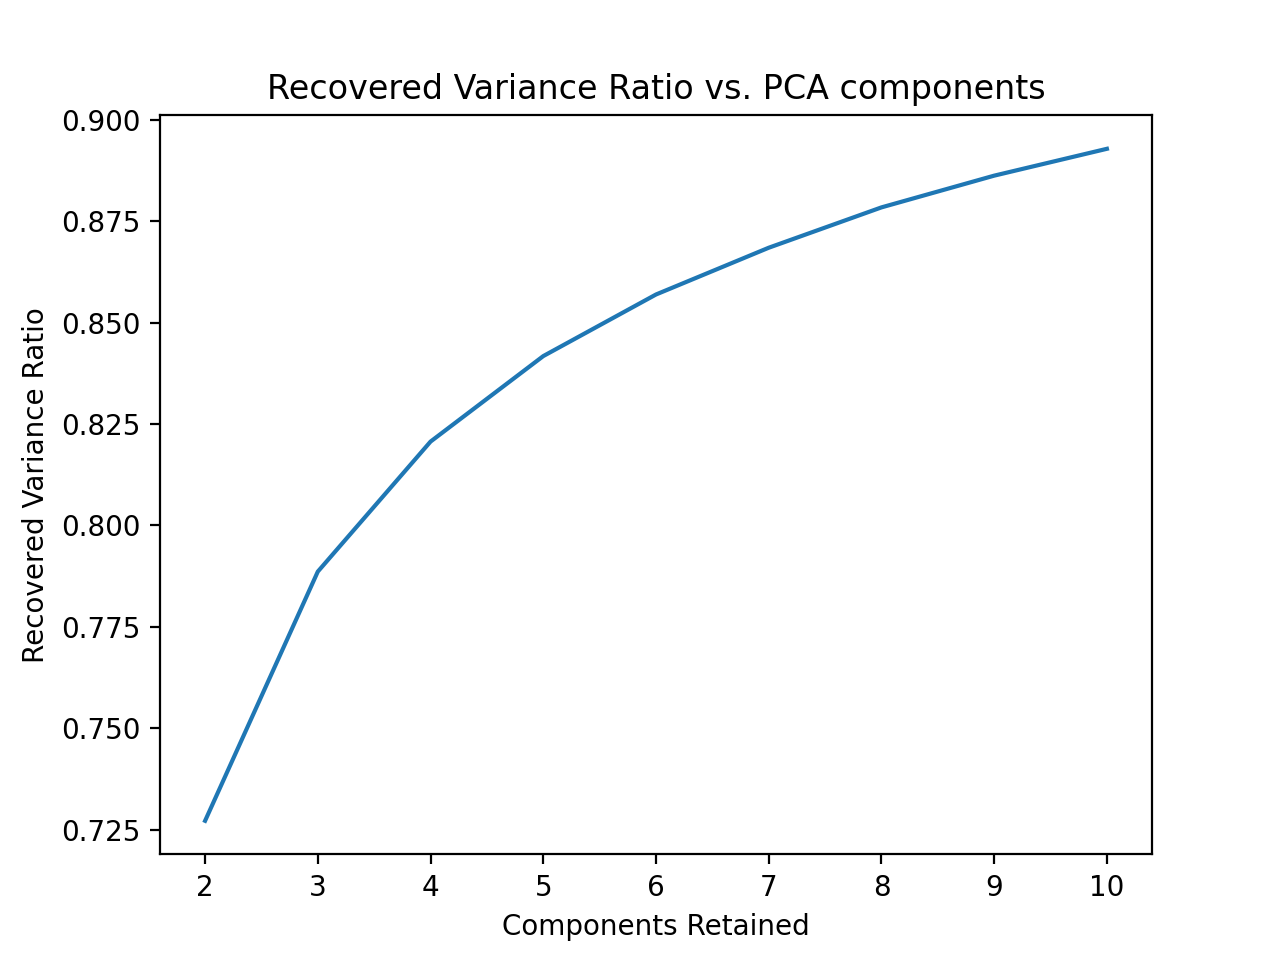
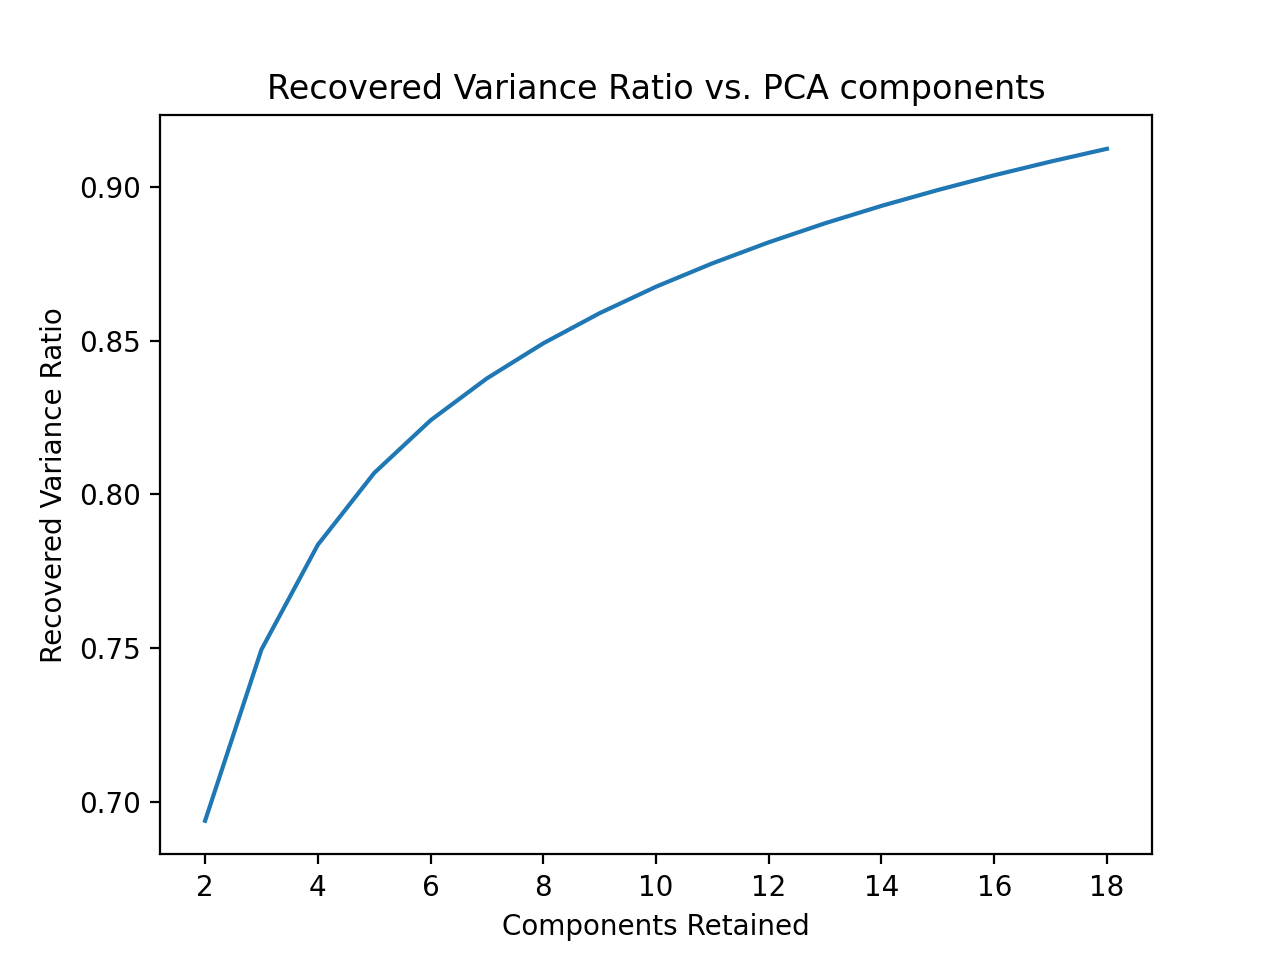
decided on parameters, added label generating

diff --git a/src/clustering.py b/src/clustering.py
@@ -24,7 +24,7 @@ class Clustering:
 
         if not os.path.exists(save_file_path):
             img = cv2.cvtColor(cv2.imread(path_to_file), cv2.COLOR_BGR2RGB)
-            img = cv2.resize(img, (1000, 1000))
+            img = cv2.resize(img, (250, 250))
             blue, green, red = cv2.split(img)
 
             df_blue = blue / 255.
@@ -40,10 +40,6 @@ class Clustering:
             pca_r = PCA(n_components=self.K)
             trans_pca_r = pca_r.fit_transform(df_red)
 
-            if (self.analysis == 1):
-                mean = (pca_r.explained_variance_ratio_ + pca_b.explained_variance_ratio_ + pca_g.explained_variance_ratio_) / 3
-                print(np.sum(mean))
-
             b_arr = pca_b.inverse_transform(trans_pca_b)
             g_arr = pca_g.inverse_transform(trans_pca_g)
             r_arr = pca_r.inverse_transform(trans_pca_r)
@@ -51,38 +47,90 @@ class Clustering:
             new_img = np.clip(cv2.merge((b_arr, g_arr, r_arr)), 0, 1)
 
             np.save(save_file_path, new_img)
-            if (self.analysis == 0):
-                print(f'Created compressed image for {path_to_file}')
+            print(f'Created compressed image for {path_to_file}')
         
-        return np.load(save_file_path, encoding='bytes')
+        return np.load(save_file_path, encoding='bytes'), os.path.splitext(path_to_file)[0]
 
     def __generate_images(self, u_subdir=""):
         all_images = []
+        paths = []
         total_num_files = 0
         for subdir, dirs, files in os.walk(os.path.join(IMAGES_PATH, u_subdir)):
             files = [ fi for fi in files if fi.endswith(".jpg") ]
-            imgs = np.zeros((len(files), 1000, 1000, 3))
+            imgs = np.zeros((len(files), 250, 250, 3))
             i = 0
             for file in files:
-                imgs[i, ...] = self.__compress_image(subdir, file)
+                imgs[i, ...], path = self.__compress_image(subdir, file)
+                i += 1
+                paths.append(path)
+            total_num_files += i
+            all_images.append((imgs, subdir))
+        return all_images, total_num_files, paths
+
+    def __compress_image_overwrite(self, subdir, file):
+        path_to_file = os.path.join(subdir, file)
+        save_file_path = os.path.splitext(path_to_file)[0] + ".npy"
+
+        img = cv2.cvtColor(cv2.imread(path_to_file), cv2.COLOR_BGR2RGB)
+        img = cv2.resize(img, (250, 250))
+        blue, green, red = cv2.split(img)
+
+        df_blue = blue / 255.
+        df_green = green / 255.
+        df_red = red / 255.
+
+        pca_b = PCA(n_components=self.K)
+        trans_pca_b = pca_b.fit_transform(df_blue)
+
+        pca_g = PCA(n_components=self.K)
+        trans_pca_g = pca_g.fit_transform(df_green)
+
+        pca_r = PCA(n_components=self.K)
+        trans_pca_r = pca_r.fit_transform(df_red)
+
+        if (self.analysis == 1):
+            mean = (pca_r.explained_variance_ratio_ + pca_b.explained_variance_ratio_ + pca_g.explained_variance_ratio_) / 3
+            mean = np.sum(mean)
+
+        b_arr = pca_b.inverse_transform(trans_pca_b)
+        g_arr = pca_g.inverse_transform(trans_pca_g)
+        r_arr = pca_r.inverse_transform(trans_pca_r)
+
+        new_img = np.clip(cv2.merge((b_arr, g_arr, r_arr)), 0, 1)
+
+        np.save(save_file_path, new_img)        
+        return np.load(save_file_path, encoding='bytes'), mean
+
+    def generate_images_overwrite(self, u_subdir=""):
+        all_images = []
+        total_num_files = 0
+        sum = 0.0
+        for subdir, dirs, files in os.walk(os.path.join(IMAGES_PATH, u_subdir)):
+            files = [ fi for fi in files if fi.endswith(".jpg") ]
+            imgs = np.zeros((len(files), 250, 250, 3))
+            i = 0
+            for file in files:
+                imgs[i, ...], mean = self.__compress_image_overwrite(subdir, file)
+                sum = sum + mean
                 i += 1
             total_num_files += i
             all_images.append((imgs, subdir))
-        return all_images, total_num_files
+        
+        return all_images, total_num_files, (sum / total_num_files)
 
     def cluster_images_kmeans(self, u_subdir=""):
         all_images_path = os.path.join(IMAGES_PATH, u_subdir, "all_images.npy")
         if not os.path.exists(all_images_path):
-            original_images, total_num_images = self.__generate_images(u_subdir=u_subdir)
+            original_images, total_num_images, paths = self.__generate_images(u_subdir=u_subdir)
 
-            all_images = np.zeros((total_num_images, 1000 * 1000 * 3))
+            all_images = np.zeros((total_num_images, 250 * 250 * 3))
 
             start = 0
             for image_subdir, subdir in original_images:
                 end = start + len(image_subdir)
                 all_images[start:end] = image_subdir.reshape(len(image_subdir), -1)
                 start = end
-        
+
             np.save(all_images_path, all_images)
 
         images = np.load(all_images_path)
@@ -90,9 +138,31 @@ class Clustering:
 
         kmeans.fit(images)
 
-        return kmeans.labels_, kmeans.inertia_
+        return kmeans.labels_, kmeans.inertia_, paths
     
     def cluster_images_agglomerate(self, u_subdir=""):
+        all_images_path = os.path.join(IMAGES_PATH, u_subdir, "all_images.npy")
+        if not os.path.exists(all_images_path):
+            original_images, total_num_images = self.__generate_images(u_subdir=u_subdir)
+
+            all_images = np.zeros((total_num_images, 250 * 250 * 3))
+
+            start = 0
+            for image_subdir, subdir in original_images:
+                end = start + len(image_subdir)
+                all_images[start:end] = image_subdir.reshape(len(image_subdir), -1)
+                start = end
+        
+            np.save(all_images_path, all_images)
+
+        images = np.load(all_images_path)
+        c = AgglomerativeClustering(n_clusters=self.num_clusters, compute_distances=True)
+
+        c.fit(images)
+
+        return c.labels_, c.distances_
+
+    def cluster_images_varied_agglomerate(self, u_subdir="", distance_threshold=0.5):
         all_images_path = os.path.join(IMAGES_PATH, u_subdir, "all_images.npy")
         if not os.path.exists(all_images_path):
             original_images, total_num_images = self.__generate_images(u_subdir=u_subdir)
@@ -108,8 +178,8 @@ class Clustering:
             np.save(all_images_path, all_images)
 
         images = np.load(all_images_path)
-        c = AgglomerativeClustering(n_clusters=self.num_clusters)
+        c = AgglomerativeClustering(n_clusters=None, distance_threshold=distance_threshold)
 
         c.fit(images)
 
-        return c.labels_
+        return c.labels_, c.n_clusters_

diff --git a/src/analysis.py b/src/analysis.py
@@ -5,28 +5,27 @@ import numpy as np
 
 from clustering import Clustering
 
-subdir = "028" # change this
+subdir = "094" # change this
 
 labels = []
 var = []
 
 # KMeans PCA Analysis  
-def KMeans_PCA_Variance_Ratio(k):
-    print("Running KMeans with PCA image compression using", k, "components.")
-    k_clustering = Clustering(K=k,num_clusters=5, analysis=1)
-
-    labels_k = k_clustering.cluster_images_kmeans(u_subdir=subdir)
-
-def plot_variance_ratio():
-    f = open("results/variance.txt", "r")
-
-    count = 2
+def KMeans_PCA_Variance_Ratio():
     labels = []
     var = []
-    for x in f:
-        labels.append(count)
-        var.append(float(x))
-        count = count + 1
+    mean = 0
+    k = 2
+    while mean < 0.91:
+        print("Running KMeans with PCA image compression using", k, "components.")
+        k_clustering = Clustering(K=k, analysis=1)
+
+        _, _, mean = k_clustering.generate_images_overwrite(u_subdir=subdir)
+        print(mean)
+        labels.append(k)
+        k = k + 1
+        var.append(mean)
+    
     plt.plot(labels, var)
     plt.title('Recovered Variance Ratio vs. PCA components')
     plt.xlabel('Components Retained')
@@ -36,8 +35,9 @@ def plot_variance_ratio():
 def KMeans_Optimal_Clusters():
     labels = []
     objective_values = []
-    for k in range(2, 16):
-        k_clustering = Clustering(num_clusters=k)
+    for k in range(2, 25):
+        print(k)
+        k_clustering = Clustering(K=16, num_clusters=k)
         _, inertia_k = k_clustering.cluster_images_kmeans(u_subdir=subdir)
         labels.append(k)
         objective_values.append(inertia_k)
@@ -47,8 +47,6 @@ def KMeans_Optimal_Clusters():
     plt.xlabel('Clusters Used')
     plt.ylabel('Inertia')
     plt.show()
-
-
 
 ## Function to Run
 KMeans_Optimal_Clusters()

diff --git a/src/main.py b/src/main.py
@@ -1,3 +1,4 @@
+from cProfile import label
 import os
 
 import matplotlib.pyplot as plt
@@ -6,30 +7,30 @@ import numpy as np
 from clustering import IMAGES_PATH, Clustering
 
 agg_clustering = Clustering(num_clusters=10)
-k_clustering = Clustering(num_clusters=10)
+k_clustering = Clustering(K = 16, num_clusters=13)
 
-subdir = "028" # change this
+subdir = "030" # change this
 
 # Setup for KMeans
-labels_k, _ = k_clustering.cluster_images_kmeans(u_subdir=subdir)
+labels_k, _, paths = k_clustering.cluster_images_kmeans(u_subdir=subdir)
 
 images = np.load(os.path.join(IMAGES_PATH, subdir, "all_images.npy"))
-images = images.reshape(len(images), 1000, 1000, 3)
+images = images.reshape(len(images), 250, 250, 3)
 
-"""
 # Setup for Agglomerate Clustering
+"""
 labels_a = agg_clustering.cluster_images_agglomerate(u_subdir=subdir)
 """
+path = "results/data/cluster_results_" + subdir + ".csv"
+f = open(path, "w")
+k = 0
+for i in labels_k:
+    string = str(paths[k].split("/")[3]) + "," + str(i) + "\n"
+    k = k + 1
+    f.write(string)
+f.close()
 
-fig = plt.figure(figsize=(2, len(images)))
-i = 0
-
-for img in images:
-    ax = fig.add_subplot(2, len(images), i + 1, xticks=[], yticks=[])
-    ax.imshow(img)
-    ax.set_title(f'{labels_k[i - len(images)]}')
-    i += 1
-
+# Setup for Plot
 """
 for img in images:
     ax = fig.add_subplot(2, len(images), i + 1, xticks=[], yticks=[])
